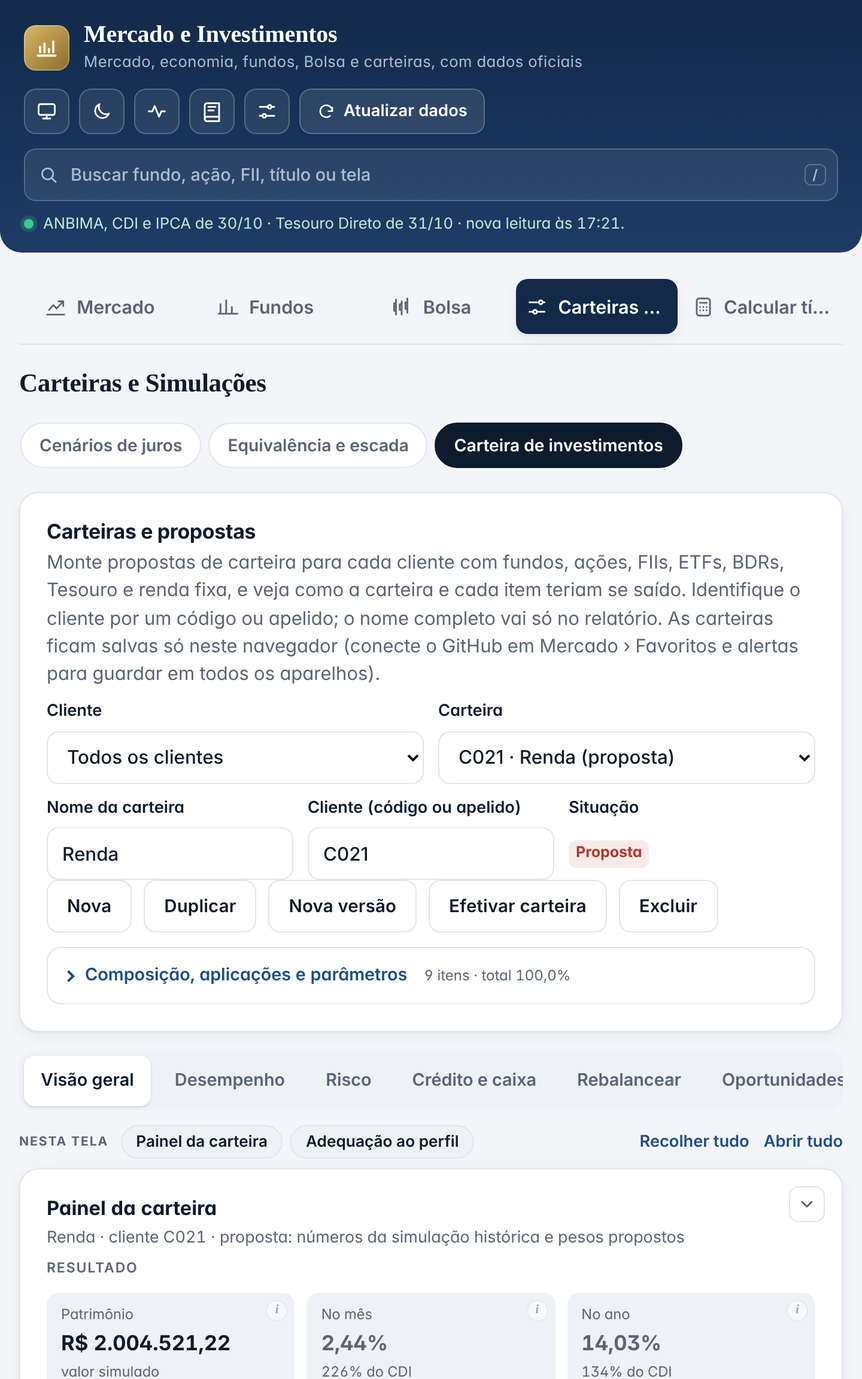
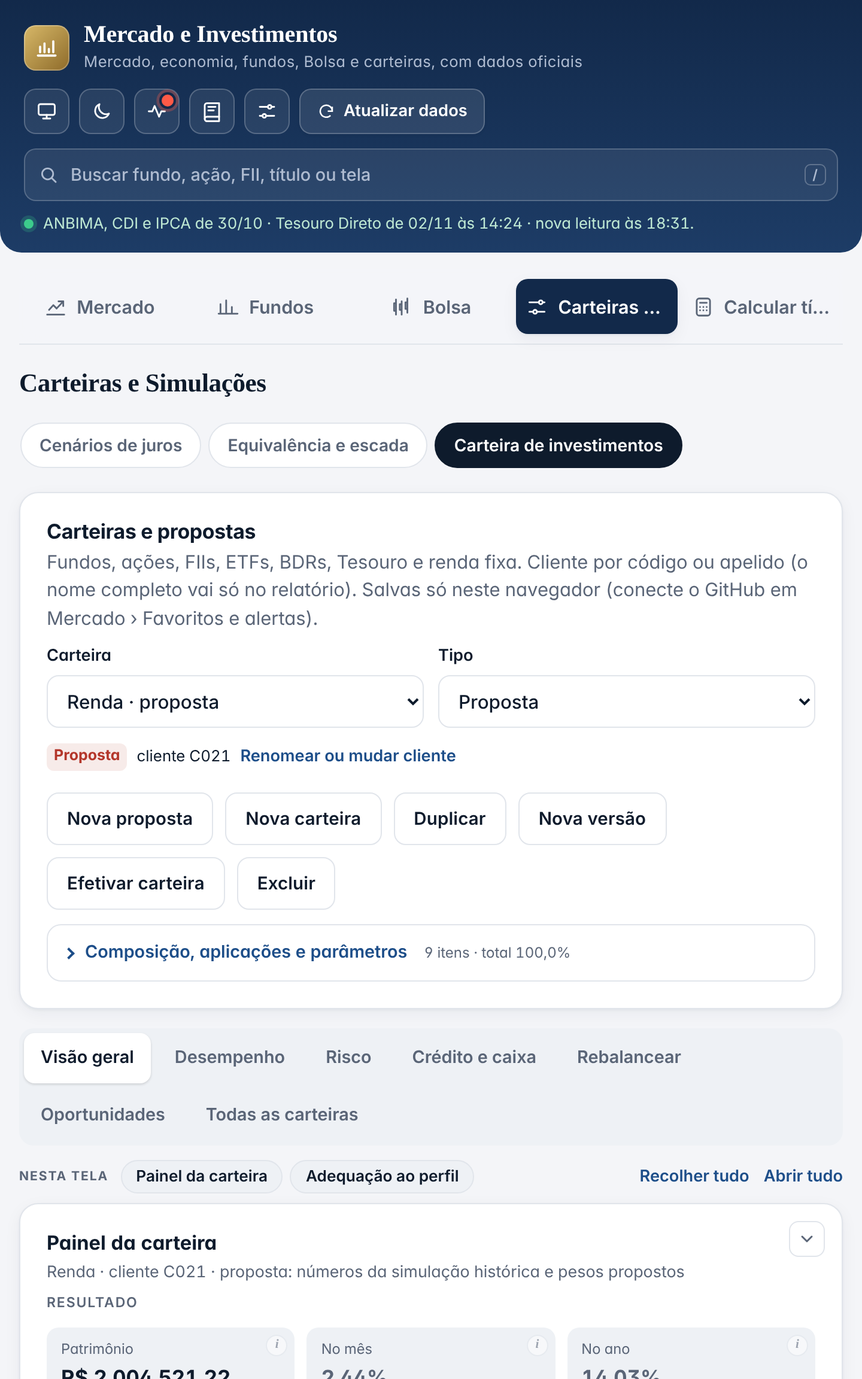
Carteira: topo sem duplicidades — uma lista de carteiras agrupada por cliente, tipo ao lado, nome e cliente editados só quando pedido (abre sozinho ao criar), filtro por cliente movido para Todas as carteiras e lista repetida removida
Claude-Session: https://claude.ai/code/session_01C29iaDhB36qWPanLrMwwVc

diff --git a/index.html b/index.html
@@ -1,5 +1,5 @@
 <!doctype html><html lang="pt-BR"><head><meta charset="utf-8">
-<meta http-equiv="Content-Security-Policy" content="default-src 'none'; script-src 'self' 'sha256-FPMi+IIpKqgMkKG3aretZtZPHrrBgNuyA/7yVPtWdsI='; style-src 'self' 'unsafe-inline' https://fonts.googleapis.com; font-src https://fonts.gstatic.com; img-src 'self' data: blob:; manifest-src 'self'; worker-src 'self'; connect-src 'self' https://raw.githubusercontent.com https://api.github.com https://servicodados.ibge.gov.br; frame-src 'self'; base-uri 'none'; form-action 'none'; object-src 'none'">
+<meta http-equiv="Content-Security-Policy" content="default-src 'none'; script-src 'self' 'sha256-+nX+CWU8sf6Ob3K8oBalGT+v9OcnJq6nr0xgx/AA+Xk='; style-src 'self' 'unsafe-inline' https://fonts.googleapis.com; font-src https://fonts.gstatic.com; img-src 'self' data: blob:; manifest-src 'self'; worker-src 'self'; connect-src 'self' https://raw.githubusercontent.com https://api.github.com https://servicodados.ibge.gov.br; frame-src 'self'; base-uri 'none'; form-action 'none'; object-src 'none'">
 <meta name="referrer" content="no-referrer">
 <link rel="manifest" href="manifest.webmanifest"><meta name="theme-color" content="#12294A"><link rel="apple-touch-icon" href="icone-192.png"><link rel="icon" href="icone-192.png"><meta name="apple-mobile-web-app-capable" content="yes"><meta name="mobile-web-app-capable" content="yes"><meta name="apple-mobile-web-app-title" content="Mercado e Investimentos"><meta name="viewport" content="width=device-width,initial-scale=1,viewport-fit=cover"><meta name="robots" content="noindex,nofollow"><style>*,*::before,*::after{box-sizing:border-box}html,body{margin:0;padding:0}[hidden]{display:none!important}</style></head><body><title>Mercado e Investimentos</title>
 <meta name="claude:viewport-fit-sides" content="cover">
@@ -4568,14 +4568,16 @@ function spRfEd(it,j){ // taxa da renda fixa editável (útil para CDB, LCI e LC
   return '<span class="sprfe"><select data-sprfe="'+j+'" aria-label="Indexador">'+Object.keys(SP_RF).map(k=>'<option value="'+k+'"'+(it.rf===k?' selected':'')+'>'+SP_RF[k]+'</option>').join("")+'</select><span class="affix s"><input inputmode="decimal" data-sprfv="'+j+'" value="'+fx(+it.x||0,2)+'" aria-label="Taxa"><span class="suf">'+(it.rf==="cdi"?"% CDI":"% a.a.")+'</span></span>'+(it.est?'<small class="warn" style="display:block">taxa estimada na importação: ajuste para a taxa real</small>':'')+'</span>'}
 function spTopHtml(){
   spModoSync(spC());const c=spC(),tot=c.itens.reduce((a,x)=>a+(+x.w||0),0);
-  let h='<section class="panel"><h3>Carteiras e propostas</h3><p class="sub">Monte propostas de carteira para cada cliente com fundos, ações, FIIs, ETFs, BDRs, Tesouro e renda fixa, e veja como a carteira e cada item teriam se saído. Identifique o cliente por um código ou apelido; o nome completo vai só no relatório. As carteiras ficam salvas '+(typeof SYNC!=="undefined"&&SYNC.tok?'no seu repositório privado do GitHub, em todos os aparelhos conectados':'só neste navegador (conecte o GitHub em Mercado › Favoritos e alertas para guardar em todos os aparelhos)')+'.</p>';
-  const clis=spClientes(),vis=SP.carts.map((x,j)=>[x,j]).filter(([x,j])=>j===SP.cur||!SP.fcli||(SP.fcli==="__sem"?!x.cli:x.cli===SP.fcli));
-  h+='<div class="sprow"><div class="field"><label for="spCliF">Cliente</label><select id="spCliF" data-spclif="1"><option value="">Todos os clientes</option>'+clis.map(k=>'<option value="'+esc(k)+'"'+(SP.fcli===k?' selected':'')+'>'+esc(k)+'</option>').join("")+'<option value="__sem"'+(SP.fcli==="__sem"?' selected':'')+'>Sem cliente</option></select></div>'
-    +'<div class="field"><label for="spSel">Carteira</label><select id="spSel" data-spsel="1">'+vis.map(([x,j])=>'<option value="'+j+'"'+(j===SP.cur?' selected':'')+'>'+esc(spRotulo(x))+'</option>').join("")+'</select></div></div>';
-  h+='<div class="sprow"><div class="field"><label for="spNome">Nome da carteira</label><input id="spNome" data-spnome="1" value="'+esc(c.nome)+'" maxlength="60" autocomplete="off"></div>'
-    +'<div class="field"><label for="spCliI">Cliente (código ou apelido)</label><input id="spCliI" data-spcli="1" list="spCliL" value="'+esc(c.cli||"")+'" maxlength="40" autocomplete="off" placeholder="ex.: C014"><datalist id="spCliL">'+clis.map(k=>'<option value="'+esc(k)+'">').join("")+'</datalist></div>'
-    +'<div class="field"><label for="spModo">Tipo de cadastro</label><select id="spModo" data-spmodo="1"><option value="proposta"'+(c.modo!=="carteira"?' selected':'')+'>Proposta</option><option value="carteira"'+(c.modo==="carteira"?' selected':'')+'>Carteira em andamento</option></select></div>'
-    +'<div class="field"><label>Situação</label><div class="spsit">'+(c.modo==="carteira"?'<span class="fnq fnq1">Em andamento'+(c.ef&&c.ef.data?' desde '+fdate(Date.parse(c.ef.data+"T00:00:00Z")):'')+'</span>':c.sit==="efetivada"?'<span class="fnq fnq1">Efetivada em '+fdate(Date.parse(c.ef.data+"T00:00:00Z"))+'</span>':'<span class="fnq fnq3">Proposta</span>')+(c.criada?' <small>criada em '+fdate(Date.parse(c.criada+"T00:00:00Z"))+(c.ver>1?' · versão '+c.ver:'')+'</small>':'')+'</div></div></div>';
+  let h='<section class="panel"><h3>Carteiras e propostas</h3><p class="sub">Fundos, ações, FIIs, ETFs, BDRs, Tesouro e renda fixa. Cliente por código ou apelido (o nome completo vai só no relatório). Salvas '+(typeof SYNC!=="undefined"&&SYNC.tok?'no seu GitHub privado, em todos os aparelhos':'só neste navegador (conecte o GitHub em Mercado › Favoritos e alertas)')+'.</p>';
+  const clis=spClientes(),grupo=k=>SP.carts.map((x,j)=>[x,j]).filter(([x])=>(x.cli||"")===k).sort((a,b)=>String(b[0].criada||"").localeCompare(String(a[0].criada||"")));
+  const opt=([x,j])=>'<option value="'+j+'"'+(j===SP.cur?' selected':'')+'>'+esc(x.nome)+' · '+(x.modo==="carteira"?'carteira':x.sit==="efetivada"?'efetivada':'proposta')+'</option>';
+  const sit=c.modo==="carteira"?'<span class="fnq fnq1">Em andamento'+(c.ef&&c.ef.data?' desde '+fdate(Date.parse(c.ef.data+"T00:00:00Z")):'')+'</span>':c.sit==="efetivada"?'<span class="fnq fnq1">Efetivada em '+fdate(Date.parse(c.ef.data+"T00:00:00Z"))+'</span>':'';
+  h+='<div class="sprow sptopo1"><div class="field"><label for="spSel">Carteira</label><select id="spSel" data-spsel="1">'+clis.map(k=>'<optgroup label="Cliente '+esc(k)+'">'+grupo(k).map(opt).join("")+'</optgroup>').join("")+(grupo("").length?'<optgroup label="Sem cliente">'+grupo("").map(opt).join("")+'</optgroup>':'')+'</select></div>'
+    +'<div class="field"><label for="spModo">Tipo</label><select id="spModo" data-spmodo="1"><option value="proposta"'+(c.modo!=="carteira"?' selected':'')+'>Proposta</option><option value="carteira"'+(c.modo==="carteira"?' selected':'')+'>Carteira em andamento</option></select></div></div>';
+  h+='<div class="spsit" style="margin:2px 0 8px">'+sit+' <small>'+(c.cli?'Cliente '+esc(c.cli):'Sem cliente')+(c.criada?' · criada em '+fdate(Date.parse(c.criada+"T00:00:00Z"))+(c.ver>1?' · versão '+c.ver:''):'')+'</small> <button type="button" class="link" data-spren="1">'+(SP.renOpen?'Fechar':'Renomear ou mudar cliente')+'</button></div>';
+  if(SP.renOpen)h+='<div class="spef"><div class="sprow"><div class="field"><label for="spNome">Nome da carteira</label><input id="spNome" data-spnome="1" value="'+esc(c.nome)+'" maxlength="60" autocomplete="off"></div>'
+    +'<div class="field"><label for="spCliI">Cliente (código ou apelido)</label><input id="spCliI" data-spcli="1" list="spCliL" value="'+esc(c.cli||"")+'" maxlength="40" autocomplete="off" placeholder="ex.: C014 (opcional)"><datalist id="spCliL">'+clis.map(k=>'<option value="'+esc(k)+'">').join("")+'</datalist></div>'
+    +'<div class="field" style="align-self:end"><button type="button" class="btn" data-spren="1">Concluir</button></div></div></div>';
   h+='<div class="spbtns"><button type="button" class="btn sec" data-spnew="proposta">Nova proposta</button><button type="button" class="btn sec" data-spnew="carteira">Nova carteira</button><button type="button" class="btn sec" data-spdup="1">Duplicar</button><button type="button" class="btn sec" data-spver="1">Nova versão</button>'
     +(c.modo==="carteira"?'':c.sit==="efetivada"?'<button type="button" class="btn sec" data-spdesef="1">Voltar para proposta</button>':'<button type="button" class="btn sec" data-spefform="1">Efetivar carteira</button>')
     +'<button type="button" class="btn sec" data-spdel="1"'+(SP.carts.length<2?' disabled':'')+'>Excluir</button></div>';
@@ -4584,7 +4586,6 @@ function spTopHtml(){
   let compAb=SP.compAb!=null?SP.compAb:!c.itens.length||Math.abs(tot-100)>0.05||SP.efForm;try{if(SP.compAb==null&&localStorage.getItem("spCompo")==="1")compAb=true}catch(e){}
   h+='<details class="spcompo"'+(compAb?' open':'')+' data-spcompo="1"><summary>Composição, aplicações e parâmetros <small>'+c.itens.length+(c.itens.length===1?' item':' itens')+' · total '+fx(tot,1)+'%</small></summary>';
   h+='<details class="nota" style="margin-top:10px"'+(c.obs?' open':'')+'><summary>Observações internas</summary><textarea id="spObs" data-spobs="1" rows="3" maxlength="2000" placeholder="Anotações suas sobre esta carteira (não vão para o relatório)">'+esc(c.obs||"")+'</textarea></details>';
-  if(SP.carts.length>1)h+=spListaHtml();
   h+='<div class="spimp"><label class="btn sec" for="spImp">Importar posição da B3 (Excel)</label><input id="spImp" type="file" accept=".xlsx,.xls,.csv" hidden><span class="sub" style="font-size:.8rem">Arquivo de posição da Área do Investidor da B3. Fica só neste navegador.</span><span id="spImpMsg"></span></div>';
   h+='<div class="label" style="margin-top:12px">Composição</div><div class="fnqbox"><input id="spQ" autocomplete="off" placeholder="Adicionar fundo, ativo da B3 (PETR4, HGLG11…), debênture, CRI ou CRA (código ou emissor)"><div id="spRes2" class="fnres" hidden></div></div>';
   h+='<div class="sprf"><span class="sub">ou renda fixa:</span><select data-sprft="1">'+Object.keys(SP_RF).map(k=>'<option value="'+k+'"'+(SP.rf.tipo===k?' selected':'')+'>'+SP_RF[k]+'</option>').join("")+'</select><span class="affix s" style="max-width:130px"><input inputmode="decimal" data-sprfx="1" value="'+esc(SP.rf.taxa)+'" placeholder="'+(SP.rf.tipo==="cdi"?"ex.: 110":"ex.: 6,5")+'"><span class="suf">'+(SP.rf.tipo==="cdi"?"% CDI":"% a.a.")+'</span></span><button type="button" class="btn sec" data-sprfadd="1">Adicionar</button></div>';
@@ -4871,7 +4872,7 @@ document.addEventListener("click",e=>{
   if((x=g("data-speq"))){const n=c.itens.length;c.itens.forEach((it,j)=>it.w=Math.round(100/n*10)/10);const d=100-c.itens.reduce((a,it)=>a+it.w,0);if(n)c.itens[0].w=Math.round((c.itens[0].w+d)*10)/10;spSave();spCalc();return}
   if((x=g("data-spnorm"))){const t=c.itens.reduce((a,it)=>a+(+it.w||0),0);if(t>0)c.itens.forEach(it=>it.w=Math.round(it.w/t*1000)/10);spSave();spCalc();return}
   if((x=g("data-spclear"))){c.itens=[];spSave();spCalc();return}
-  if((x=g("data-spnew"))){const cli=SP.fcli&&SP.fcli!=="__sem"?SP.fcli:"",cart=x.dataset.spnew==="carteira",n=SP.carts.filter(y=>!cli||y.cli===cli).length+1,nv=spNova((cart?"Carteira ":"Proposta ")+n,cli);if(cart){nv.modo="carteira";SP.compAb=true}SP.carts.push(nv);SP.efForm=false;SP.cur=SP.carts.length-1;SP_CMP=null;spSave();spCalc();return}
+  if((x=g("data-spnew"))){const cli=SP.fcli&&SP.fcli!=="__sem"?SP.fcli:"",cart=x.dataset.spnew==="carteira",n=SP.carts.filter(y=>!cli||y.cli===cli).length+1,nv=spNova((cart?"Carteira ":"Proposta ")+n,cli);if(cart){nv.modo="carteira";SP.compAb=true}SP.carts.push(nv);SP.renOpen=true;SP.efForm=false;SP.cur=SP.carts.length-1;SP_CMP=null;spSave();spCalc();return}
   if((x=g("data-spdup"))){const d=JSON.parse(JSON.stringify(c));d.nome=c.nome+" (cópia)";d.id=null;d.sit="proposta";delete d.ef;d.criada=spHoje();d.ver=1;SP.carts.push(d);SP.cur=SP.carts.length-1;SP_CMP=null;spSave();spCalc();return}
   if((x=g("data-spdel"))){if(SP.carts.length<2)return;if(!confirmLite(x))return;SP.carts.splice(SP.cur,1);SP.cur=Math.max(0,SP.cur-1);SP_CMP=null;spSave();spCalc();return}
   if((x=g("data-sprfadd"))){const v=num(SP.rf.taxa);if(v==null){alertLite("Informe a taxa da renda fixa.");return}spAdd({t:"s",k:SP.rf.tipo+":"+v,rf:SP.rf.tipo,x:v,n:SP.rf.tipo==="cdi"?fx(v,1)+"% do CDI":SP.rf.tipo==="cdimais"?"CDI + "+fx(v,2)+"% a.a.":SP.rf.tipo==="ipca"?"IPCA + "+fx(v,2)+"% a.a.":"Prefixado "+fx(v,2)+"% a.a.",tipo:"Renda fixa"});return}
@@ -4891,9 +4892,9 @@ function confirmLite(btn){if(btn.dataset.ok==="1")return true;btn.dataset.ok="1"
 document.addEventListener("change",e=>{const t=e.target;if(!t||!t.dataset||activeMod!=="sp")return;const c=spC();
   if(t.dataset.spsel){SP.cur=+t.value;SP.efForm=false;SP_CMP=null;spSave();spCalc()}
   else if(t.dataset.spclif!=null&&t.id==="spCliF"){SP.fcli=t.value;const j=SP.carts.findIndex(x=>!SP.fcli||(SP.fcli==="__sem"?!x.cli:x.cli===SP.fcli));if(j>=0&&!(!SP.fcli||(SP.fcli==="__sem"?!spC().cli:spC().cli===SP.fcli)))SP.cur=j;SP_CMP=null;spSave();spCalc()}
-  else if(t.dataset.spcli!=null&&t.id==="spCliI"){c.cli=t.value.trim().slice(0,40);spSave();spTopHtml()}
+  else if(t.dataset.spcli!=null&&t.id==="spCliI"){c.cli=t.value.trim().slice(0,40);SP_CMP=null;if(typeof SP_ASS!=="undefined")SP_ASS=null;spSave();setTimeout(spTopHtml,0)}
   else if(t.dataset.spobs!=null&&t.id==="spObs"){c.obs=t.value.slice(0,2000);spSave()}
-  else if(t.dataset.spnome!=null&&t.dataset.spnome!==undefined&&t.id==="spNome"){c.nome=t.value.trim()||c.nome;SP_CMP=null;spSave();spCalc()}
+  else if(t.dataset.spnome!=null&&t.dataset.spnome!==undefined&&t.id==="spNome"){c.nome=t.value.trim()||c.nome;SP_CMP=null;spSave();setTimeout(spTopHtml,0)}
   else if(t.dataset.spw!=null){const v=num(t.value);c.itens[+t.dataset.spw].w=v==null?0:Math.max(0,v);SP_CMP=null;spSave();spCalc()}
   else if(t.dataset.spv){const k=t.dataset.spv;c[k]=k==="valor"||k==="aporte"?(num(t.value)||0):t.value;SP_CMP=null;spSave();spCalc()}
   else if(t.dataset.spir){c.ir=t.checked?1:0;spSave();spCalc()}
@@ -6165,7 +6166,7 @@ function spAssRender(){
   else h+='<p class="sub" style="font-size:.8rem;margin-top:6px">A evolução mês a mês do patrimônio acompanhado aparece a partir do segundo mês em que o painel for calculado (com todos os clientes).</p>';
   box.innerHTML=h}
 function spAssHtml(){const n=SP.carts.filter(x=>!SP.fcli||(SP.fcli==="__sem"?!x.cli:x.cli===SP.fcli)).length;
-  return '<section class="panel" data-reltit="Painel do assessor"><h3>Painel do assessor</h3><p class="sub">'+(SP.fcli&&SP.fcli!=="__sem"?'As carteiras do cliente '+esc(SP.fcli):'Todas as carteiras e propostas')+' numa tela: patrimônio, resultado contra o CDI e o que precisa de atenção.</p><div id="spAssBox">'+(SP_ASS?'':'<button type="button" class="btn sec" data-spass="1">Calcular as '+n+(n>1?' carteiras':' carteira')+'</button>')+'</div></section>'}
+  return '<section class="panel" data-reltit="Painel do assessor"><h3>Painel do assessor</h3><p class="sub">'+(SP.fcli&&SP.fcli!=="__sem"?'As carteiras do cliente '+esc(SP.fcli):'Todas as carteiras e propostas')+' numa tela: patrimônio, resultado contra o CDI e o que precisa de atenção.</p>'+spFiltroCli()+'<div id="spAssBox">'+(SP_ASS?'':'<button type="button" class="btn sec" data-spass="1">Calcular as '+n+(n>1?' carteiras':' carteira')+'</button>')+'</div></section>'}
 document.addEventListener("click",e=>{const x=e.target.closest&&e.target.closest("[data-spass]");if(!x||activeMod!=="sp")return;spAssCalc()});
 /* ---------- raio-X da carteira e sobreposição entre fundos
    Abre a carteira de cada fundo (CDA da CVM, a mais recente divulgada), inclusive as cotas de outros fundos (até 2 níveis),
@@ -6677,6 +6678,12 @@ document.addEventListener("change",e=>{const t=e.target;if(!t||!t.dataset||!t.da
     c.modo="carteira";SP.compAb=true}
   else{c.modo="proposta"}
   SP.efForm=false;SP_CMP=null;if(typeof SP_ASS!=="undefined")SP_ASS=null;spSave();spCalc()});
+/* topo da carteira: renomear e mudar o cliente só quando pedido; filtro por cliente fica em "Todas as carteiras" */
+SP.fcli="";SP.renOpen=false;
+document.addEventListener("click",e=>{const b=e.target.closest&&e.target.closest("[data-spren]");if(!b||activeMod!=="sp")return;SP.renOpen=!SP.renOpen;spTopHtml();const n=$("spNome");if(n&&SP.renOpen)n.focus()});
+document.addEventListener("change",e=>{const t=e.target;if(t&&t.dataset&&t.dataset.spsel)SP.renOpen=false},true);
+document.addEventListener("change",e=>{const t=e.target;if(!t||!t.dataset||t.dataset.spfass==null||activeMod!=="sp")return;SP.fcli=t.value;SP_ASS=null;SP_CMP=null;spSubRender()});
+function spFiltroCli(){const clis=spClientes();if(!clis.length)return "";return '<div class="field" style="max-width:320px;margin:6px 0"><label for="spFass">Cliente</label><select id="spFass" data-spfass="1"><option value="">Todos os clientes</option>'+clis.map(k=>'<option value="'+esc(k)+'"'+(SP.fcli===k?' selected':'')+'>'+esc(k)+'</option>').join("")+'<option value="__sem"'+(SP.fcli==="__sem"?' selected':'')+'>Sem cliente</option></select></div>'}
 /* ---------- eventos */
 document.addEventListener("click",e=>{const g=a=>e.target.closest&&e.target.closest("["+a+"]");let x;
   if((x=g("data-euper"))){EU.per=x.dataset.euper;euSave();if(activeMod==="au"){$("euPainel").innerHTML=painelHtml("eua")}else if(activeMod==="rs"&&typeof mkCalc==="function")mkCalc();return}

diff --git a/app/js/6-comparador-carteiras/510-simulador-de-carteiras-fundos-ativos.js b/app/js/6-comparador-carteiras/510-simulador-de-carteiras-fundos-ativos.js
@@ -30,14 +30,16 @@ function spRfEd(it,j){ // taxa da renda fixa editável (útil para CDB, LCI e LC
   return '<span class="sprfe"><select data-sprfe="'+j+'" aria-label="Indexador">'+Object.keys(SP_RF).map(k=>'<option value="'+k+'"'+(it.rf===k?' selected':'')+'>'+SP_RF[k]+'</option>').join("")+'</select><span class="affix s"><input inputmode="decimal" data-sprfv="'+j+'" value="'+fx(+it.x||0,2)+'" aria-label="Taxa"><span class="suf">'+(it.rf==="cdi"?"% CDI":"% a.a.")+'</span></span>'+(it.est?'<small class="warn" style="display:block">taxa estimada na importação: ajuste para a taxa real</small>':'')+'</span>'}
 function spTopHtml(){
   spModoSync(spC());const c=spC(),tot=c.itens.reduce((a,x)=>a+(+x.w||0),0);
-  let h='<section class="panel"><h3>Carteiras e propostas</h3><p class="sub">Monte propostas de carteira para cada cliente com fundos, ações, FIIs, ETFs, BDRs, Tesouro e renda fixa, e veja como a carteira e cada item teriam se saído. Identifique o cliente por um código ou apelido; o nome completo vai só no relatório. As carteiras ficam salvas '+(typeof SYNC!=="undefined"&&SYNC.tok?'no seu repositório privado do GitHub, em todos os aparelhos conectados':'só neste navegador (conecte o GitHub em Mercado › Favoritos e alertas para guardar em todos os aparelhos)')+'.</p>';
-  const clis=spClientes(),vis=SP.carts.map((x,j)=>[x,j]).filter(([x,j])=>j===SP.cur||!SP.fcli||(SP.fcli==="__sem"?!x.cli:x.cli===SP.fcli));
-  h+='<div class="sprow"><div class="field"><label for="spCliF">Cliente</label><select id="spCliF" data-spclif="1"><option value="">Todos os clientes</option>'+clis.map(k=>'<option value="'+esc(k)+'"'+(SP.fcli===k?' selected':'')+'>'+esc(k)+'</option>').join("")+'<option value="__sem"'+(SP.fcli==="__sem"?' selected':'')+'>Sem cliente</option></select></div>'
-    +'<div class="field"><label for="spSel">Carteira</label><select id="spSel" data-spsel="1">'+vis.map(([x,j])=>'<option value="'+j+'"'+(j===SP.cur?' selected':'')+'>'+esc(spRotulo(x))+'</option>').join("")+'</select></div></div>';
-  h+='<div class="sprow"><div class="field"><label for="spNome">Nome da carteira</label><input id="spNome" data-spnome="1" value="'+esc(c.nome)+'" maxlength="60" autocomplete="off"></div>'
-    +'<div class="field"><label for="spCliI">Cliente (código ou apelido)</label><input id="spCliI" data-spcli="1" list="spCliL" value="'+esc(c.cli||"")+'" maxlength="40" autocomplete="off" placeholder="ex.: C014"><datalist id="spCliL">'+clis.map(k=>'<option value="'+esc(k)+'">').join("")+'</datalist></div>'
-    +'<div class="field"><label for="spModo">Tipo de cadastro</label><select id="spModo" data-spmodo="1"><option value="proposta"'+(c.modo!=="carteira"?' selected':'')+'>Proposta</option><option value="carteira"'+(c.modo==="carteira"?' selected':'')+'>Carteira em andamento</option></select></div>'
-    +'<div class="field"><label>Situação</label><div class="spsit">'+(c.modo==="carteira"?'<span class="fnq fnq1">Em andamento'+(c.ef&&c.ef.data?' desde '+fdate(Date.parse(c.ef.data+"T00:00:00Z")):'')+'</span>':c.sit==="efetivada"?'<span class="fnq fnq1">Efetivada em '+fdate(Date.parse(c.ef.data+"T00:00:00Z"))+'</span>':'<span class="fnq fnq3">Proposta</span>')+(c.criada?' <small>criada em '+fdate(Date.parse(c.criada+"T00:00:00Z"))+(c.ver>1?' · versão '+c.ver:'')+'</small>':'')+'</div></div></div>';
+  let h='<section class="panel"><h3>Carteiras e propostas</h3><p class="sub">Fundos, ações, FIIs, ETFs, BDRs, Tesouro e renda fixa. Cliente por código ou apelido (o nome completo vai só no relatório). Salvas '+(typeof SYNC!=="undefined"&&SYNC.tok?'no seu GitHub privado, em todos os aparelhos':'só neste navegador (conecte o GitHub em Mercado › Favoritos e alertas)')+'.</p>';
+  const clis=spClientes(),grupo=k=>SP.carts.map((x,j)=>[x,j]).filter(([x])=>(x.cli||"")===k).sort((a,b)=>String(b[0].criada||"").localeCompare(String(a[0].criada||"")));
+  const opt=([x,j])=>'<option value="'+j+'"'+(j===SP.cur?' selected':'')+'>'+esc(x.nome)+' · '+(x.modo==="carteira"?'carteira':x.sit==="efetivada"?'efetivada':'proposta')+'</option>';
+  const sit=c.modo==="carteira"?'<span class="fnq fnq1">Em andamento'+(c.ef&&c.ef.data?' desde '+fdate(Date.parse(c.ef.data+"T00:00:00Z")):'')+'</span>':c.sit==="efetivada"?'<span class="fnq fnq1">Efetivada em '+fdate(Date.parse(c.ef.data+"T00:00:00Z"))+'</span>':'';
+  h+='<div class="sprow sptopo1"><div class="field"><label for="spSel">Carteira</label><select id="spSel" data-spsel="1">'+clis.map(k=>'<optgroup label="Cliente '+esc(k)+'">'+grupo(k).map(opt).join("")+'</optgroup>').join("")+(grupo("").length?'<optgroup label="Sem cliente">'+grupo("").map(opt).join("")+'</optgroup>':'')+'</select></div>'
+    +'<div class="field"><label for="spModo">Tipo</label><select id="spModo" data-spmodo="1"><option value="proposta"'+(c.modo!=="carteira"?' selected':'')+'>Proposta</option><option value="carteira"'+(c.modo==="carteira"?' selected':'')+'>Carteira em andamento</option></select></div></div>';
+  h+='<div class="spsit" style="margin:2px 0 8px">'+sit+' <small>'+(c.cli?'Cliente '+esc(c.cli):'Sem cliente')+(c.criada?' · criada em '+fdate(Date.parse(c.criada+"T00:00:00Z"))+(c.ver>1?' · versão '+c.ver:''):'')+'</small> <button type="button" class="link" data-spren="1">'+(SP.renOpen?'Fechar':'Renomear ou mudar cliente')+'</button></div>';
+  if(SP.renOpen)h+='<div class="spef"><div class="sprow"><div class="field"><label for="spNome">Nome da carteira</label><input id="spNome" data-spnome="1" value="'+esc(c.nome)+'" maxlength="60" autocomplete="off"></div>'
+    +'<div class="field"><label for="spCliI">Cliente (código ou apelido)</label><input id="spCliI" data-spcli="1" list="spCliL" value="'+esc(c.cli||"")+'" maxlength="40" autocomplete="off" placeholder="ex.: C014 (opcional)"><datalist id="spCliL">'+clis.map(k=>'<option value="'+esc(k)+'">').join("")+'</datalist></div>'
+    +'<div class="field" style="align-self:end"><button type="button" class="btn" data-spren="1">Concluir</button></div></div></div>';
   h+='<div class="spbtns"><button type="button" class="btn sec" data-spnew="proposta">Nova proposta</button><button type="button" class="btn sec" data-spnew="carteira">Nova carteira</button><button type="button" class="btn sec" data-spdup="1">Duplicar</button><button type="button" class="btn sec" data-spver="1">Nova versão</button>'
     +(c.modo==="carteira"?'':c.sit==="efetivada"?'<button type="button" class="btn sec" data-spdesef="1">Voltar para proposta</button>':'<button type="button" class="btn sec" data-spefform="1">Efetivar carteira</button>')
     +'<button type="button" class="btn sec" data-spdel="1"'+(SP.carts.length<2?' disabled':'')+'>Excluir</button></div>';
@@ -46,7 +48,6 @@ function spTopHtml(){
   let compAb=SP.compAb!=null?SP.compAb:!c.itens.length||Math.abs(tot-100)>0.05||SP.efForm;try{if(SP.compAb==null&&localStorage.getItem("spCompo")==="1")compAb=true}catch(e){}
   h+='<details class="spcompo"'+(compAb?' open':'')+' data-spcompo="1"><summary>Composição, aplicações e parâmetros <small>'+c.itens.length+(c.itens.length===1?' item':' itens')+' · total '+fx(tot,1)+'%</small></summary>';
   h+='<details class="nota" style="margin-top:10px"'+(c.obs?' open':'')+'><summary>Observações internas</summary><textarea id="spObs" data-spobs="1" rows="3" maxlength="2000" placeholder="Anotações suas sobre esta carteira (não vão para o relatório)">'+esc(c.obs||"")+'</textarea></details>';
-  if(SP.carts.length>1)h+=spListaHtml();
   h+='<div class="spimp"><label class="btn sec" for="spImp">Importar posição da B3 (Excel)</label><input id="spImp" type="file" accept=".xlsx,.xls,.csv" hidden><span class="sub" style="font-size:.8rem">Arquivo de posição da Área do Investidor da B3. Fica só neste navegador.</span><span id="spImpMsg"></span></div>';
   h+='<div class="label" style="margin-top:12px">Composição</div><div class="fnqbox"><input id="spQ" autocomplete="off" placeholder="Adicionar fundo, ativo da B3 (PETR4, HGLG11…), debênture, CRI ou CRA (código ou emissor)"><div id="spRes2" class="fnres" hidden></div></div>';
   h+='<div class="sprf"><span class="sub">ou renda fixa:</span><select data-sprft="1">'+Object.keys(SP_RF).map(k=>'<option value="'+k+'"'+(SP.rf.tipo===k?' selected':'')+'>'+SP_RF[k]+'</option>').join("")+'</select><span class="affix s" style="max-width:130px"><input inputmode="decimal" data-sprfx="1" value="'+esc(SP.rf.taxa)+'" placeholder="'+(SP.rf.tipo==="cdi"?"ex.: 110":"ex.: 6,5")+'"><span class="suf">'+(SP.rf.tipo==="cdi"?"% CDI":"% a.a.")+'</span></span><button type="button" class="btn sec" data-sprfadd="1">Adicionar</button></div>';

diff --git a/app/js/6-comparador-carteiras/515-spcorhtml.js b/app/js/6-comparador-carteiras/515-spcorhtml.js
@@ -113,7 +113,7 @@ document.addEventListener("click",e=>{
   if((x=g("data-speq"))){const n=c.itens.length;c.itens.forEach((it,j)=>it.w=Math.round(100/n*10)/10);const d=100-c.itens.reduce((a,it)=>a+it.w,0);if(n)c.itens[0].w=Math.round((c.itens[0].w+d)*10)/10;spSave();spCalc();return}
   if((x=g("data-spnorm"))){const t=c.itens.reduce((a,it)=>a+(+it.w||0),0);if(t>0)c.itens.forEach(it=>it.w=Math.round(it.w/t*1000)/10);spSave();spCalc();return}
   if((x=g("data-spclear"))){c.itens=[];spSave();spCalc();return}
-  if((x=g("data-spnew"))){const cli=SP.fcli&&SP.fcli!=="__sem"?SP.fcli:"",cart=x.dataset.spnew==="carteira",n=SP.carts.filter(y=>!cli||y.cli===cli).length+1,nv=spNova((cart?"Carteira ":"Proposta ")+n,cli);if(cart){nv.modo="carteira";SP.compAb=true}SP.carts.push(nv);SP.efForm=false;SP.cur=SP.carts.length-1;SP_CMP=null;spSave();spCalc();return}
+  if((x=g("data-spnew"))){const cli=SP.fcli&&SP.fcli!=="__sem"?SP.fcli:"",cart=x.dataset.spnew==="carteira",n=SP.carts.filter(y=>!cli||y.cli===cli).length+1,nv=spNova((cart?"Carteira ":"Proposta ")+n,cli);if(cart){nv.modo="carteira";SP.compAb=true}SP.carts.push(nv);SP.renOpen=true;SP.efForm=false;SP.cur=SP.carts.length-1;SP_CMP=null;spSave();spCalc();return}
   if((x=g("data-spdup"))){const d=JSON.parse(JSON.stringify(c));d.nome=c.nome+" (cópia)";d.id=null;d.sit="proposta";delete d.ef;d.criada=spHoje();d.ver=1;SP.carts.push(d);SP.cur=SP.carts.length-1;SP_CMP=null;spSave();spCalc();return}
   if((x=g("data-spdel"))){if(SP.carts.length<2)return;if(!confirmLite(x))return;SP.carts.splice(SP.cur,1);SP.cur=Math.max(0,SP.cur-1);SP_CMP=null;spSave();spCalc();return}
   if((x=g("data-sprfadd"))){const v=num(SP.rf.taxa);if(v==null){alertLite("Informe a taxa da renda fixa.");return}spAdd({t:"s",k:SP.rf.tipo+":"+v,rf:SP.rf.tipo,x:v,n:SP.rf.tipo==="cdi"?fx(v,1)+"% do CDI":SP.rf.tipo==="cdimais"?"CDI + "+fx(v,2)+"% a.a.":SP.rf.tipo==="ipca"?"IPCA + "+fx(v,2)+"% a.a.":"Prefixado "+fx(v,2)+"% a.a.",tipo:"Renda fixa"});return}
@@ -133,9 +133,9 @@ function confirmLite(btn){if(btn.dataset.ok==="1")return true;btn.dataset.ok="1"
 document.addEventListener("change",e=>{const t=e.target;if(!t||!t.dataset||activeMod!=="sp")return;const c=spC();
   if(t.dataset.spsel){SP.cur=+t.value;SP.efForm=false;SP_CMP=null;spSave();spCalc()}
   else if(t.dataset.spclif!=null&&t.id==="spCliF"){SP.fcli=t.value;const j=SP.carts.findIndex(x=>!SP.fcli||(SP.fcli==="__sem"?!x.cli:x.cli===SP.fcli));if(j>=0&&!(!SP.fcli||(SP.fcli==="__sem"?!spC().cli:spC().cli===SP.fcli)))SP.cur=j;SP_CMP=null;spSave();spCalc()}
-  else if(t.dataset.spcli!=null&&t.id==="spCliI"){c.cli=t.value.trim().slice(0,40);spSave();spTopHtml()}
+  else if(t.dataset.spcli!=null&&t.id==="spCliI"){c.cli=t.value.trim().slice(0,40);SP_CMP=null;if(typeof SP_ASS!=="undefined")SP_ASS=null;spSave();setTimeout(spTopHtml,0)}
   else if(t.dataset.spobs!=null&&t.id==="spObs"){c.obs=t.value.slice(0,2000);spSave()}
-  else if(t.dataset.spnome!=null&&t.dataset.spnome!==undefined&&t.id==="spNome"){c.nome=t.value.trim()||c.nome;SP_CMP=null;spSave();spCalc()}
+  else if(t.dataset.spnome!=null&&t.dataset.spnome!==undefined&&t.id==="spNome"){c.nome=t.value.trim()||c.nome;SP_CMP=null;spSave();setTimeout(spTopHtml,0)}
   else if(t.dataset.spw!=null){const v=num(t.value);c.itens[+t.dataset.spw].w=v==null?0:Math.max(0,v);SP_CMP=null;spSave();spCalc()}
   else if(t.dataset.spv){const k=t.dataset.spv;c[k]=k==="valor"||k==="aporte"?(num(t.value)||0):t.value;SP_CMP=null;spSave();spCalc()}
   else if(t.dataset.spir){c.ir=t.checked?1:0;spSave();spCalc()}

diff --git a/app/js/8-mercado-eua-economia/562-painel-do-assessor.js b/app/js/8-mercado-eua-economia/562-painel-do-assessor.js
@@ -40,5 +40,5 @@ function spAssRender(){
   else h+='<p class="sub" style="font-size:.8rem;margin-top:6px">A evolução mês a mês do patrimônio acompanhado aparece a partir do segundo mês em que o painel for calculado (com todos os clientes).</p>';
   box.innerHTML=h}
 function spAssHtml(){const n=SP.carts.filter(x=>!SP.fcli||(SP.fcli==="__sem"?!x.cli:x.cli===SP.fcli)).length;
-  return '<section class="panel" data-reltit="Painel do assessor"><h3>Painel do assessor</h3><p class="sub">'+(SP.fcli&&SP.fcli!=="__sem"?'As carteiras do cliente '+esc(SP.fcli):'Todas as carteiras e propostas')+' numa tela: patrimônio, resultado contra o CDI e o que precisa de atenção.</p><div id="spAssBox">'+(SP_ASS?'':'<button type="button" class="btn sec" data-spass="1">Calcular as '+n+(n>1?' carteiras':' carteira')+'</button>')+'</div></section>'}
+  return '<section class="panel" data-reltit="Painel do assessor"><h3>Painel do assessor</h3><p class="sub">'+(SP.fcli&&SP.fcli!=="__sem"?'As carteiras do cliente '+esc(SP.fcli):'Todas as carteiras e propostas')+' numa tela: patrimônio, resultado contra o CDI e o que precisa de atenção.</p>'+spFiltroCli()+'<div id="spAssBox">'+(SP_ASS?'':'<button type="button" class="btn sec" data-spass="1">Calcular as '+n+(n>1?' carteiras':' carteira')+'</button>')+'</div></section>'}
 document.addEventListener("click",e=>{const x=e.target.closest&&e.target.closest("[data-spass]");if(!x||activeMod!=="sp")return;spAssCalc()});

diff --git a/app/js/8-mercado-eua-economia/573-proposta-ou-carteira.js b/app/js/8-mercado-eua-economia/573-proposta-ou-carteira.js
@@ -16,3 +16,9 @@ document.addEventListener("change",e=>{const t=e.target;if(!t||!t.dataset||!t.da
     c.modo="carteira";SP.compAb=true}
   else{c.modo="proposta"}
   SP.efForm=false;SP_CMP=null;if(typeof SP_ASS!=="undefined")SP_ASS=null;spSave();spCalc()});
+/* topo da carteira: renomear e mudar o cliente só quando pedido; filtro por cliente fica em "Todas as carteiras" */
+SP.fcli="";SP.renOpen=false;
+document.addEventListener("click",e=>{const b=e.target.closest&&e.target.closest("[data-spren]");if(!b||activeMod!=="sp")return;SP.renOpen=!SP.renOpen;spTopHtml();const n=$("spNome");if(n&&SP.renOpen)n.focus()});
+document.addEventListener("change",e=>{const t=e.target;if(t&&t.dataset&&t.dataset.spsel)SP.renOpen=false},true);
+document.addEventListener("change",e=>{const t=e.target;if(!t||!t.dataset||t.dataset.spfass==null||activeMod!=="sp")return;SP.fcli=t.value;SP_ASS=null;SP_CMP=null;spSubRender()});
+function spFiltroCli(){const clis=spClientes();if(!clis.length)return "";return '<div class="field" style="max-width:320px;margin:6px 0"><label for="spFass">Cliente</label><select id="spFass" data-spfass="1"><option value="">Todos os clientes</option>'+clis.map(k=>'<option value="'+esc(k)+'"'+(SP.fcli===k?' selected':'')+'>'+esc(k)+'</option>').join("")+'<option value="__sem"'+(SP.fcli==="__sem"?' selected':'')+'>Sem cliente</option></select></div>'}

diff --git a/app/LEIA-ME.md b/app/LEIA-ME.md
@@ -175,7 +175,7 @@ Lista refeita pela montagem (`python app/build.py`) a cada mudança.
 - `570-pagina-do-bdr-dados-da.js` — página do BDR: dados da empresa nos EUA (9 KB)
 - `571-subabas-da-carteira.js` (4 KB)
 - `572-editar-item.js` (7 KB)
-- `573-proposta-ou-carteira.js` (2 KB)
+- `573-proposta-ou-carteira.js` (3 KB)
 - `575-eventos.js` — eventos (1 KB)
 - `580-economia-brasil-e-eua-e.js` — Economia (Brasil) e EUA e mundo: Focus, IBGE, Banco Central, Tesouro, BLS, Fed e EIA (2 KB)
 - `585-economia-brasil.js` — Economia (Brasil) (12 KB)
